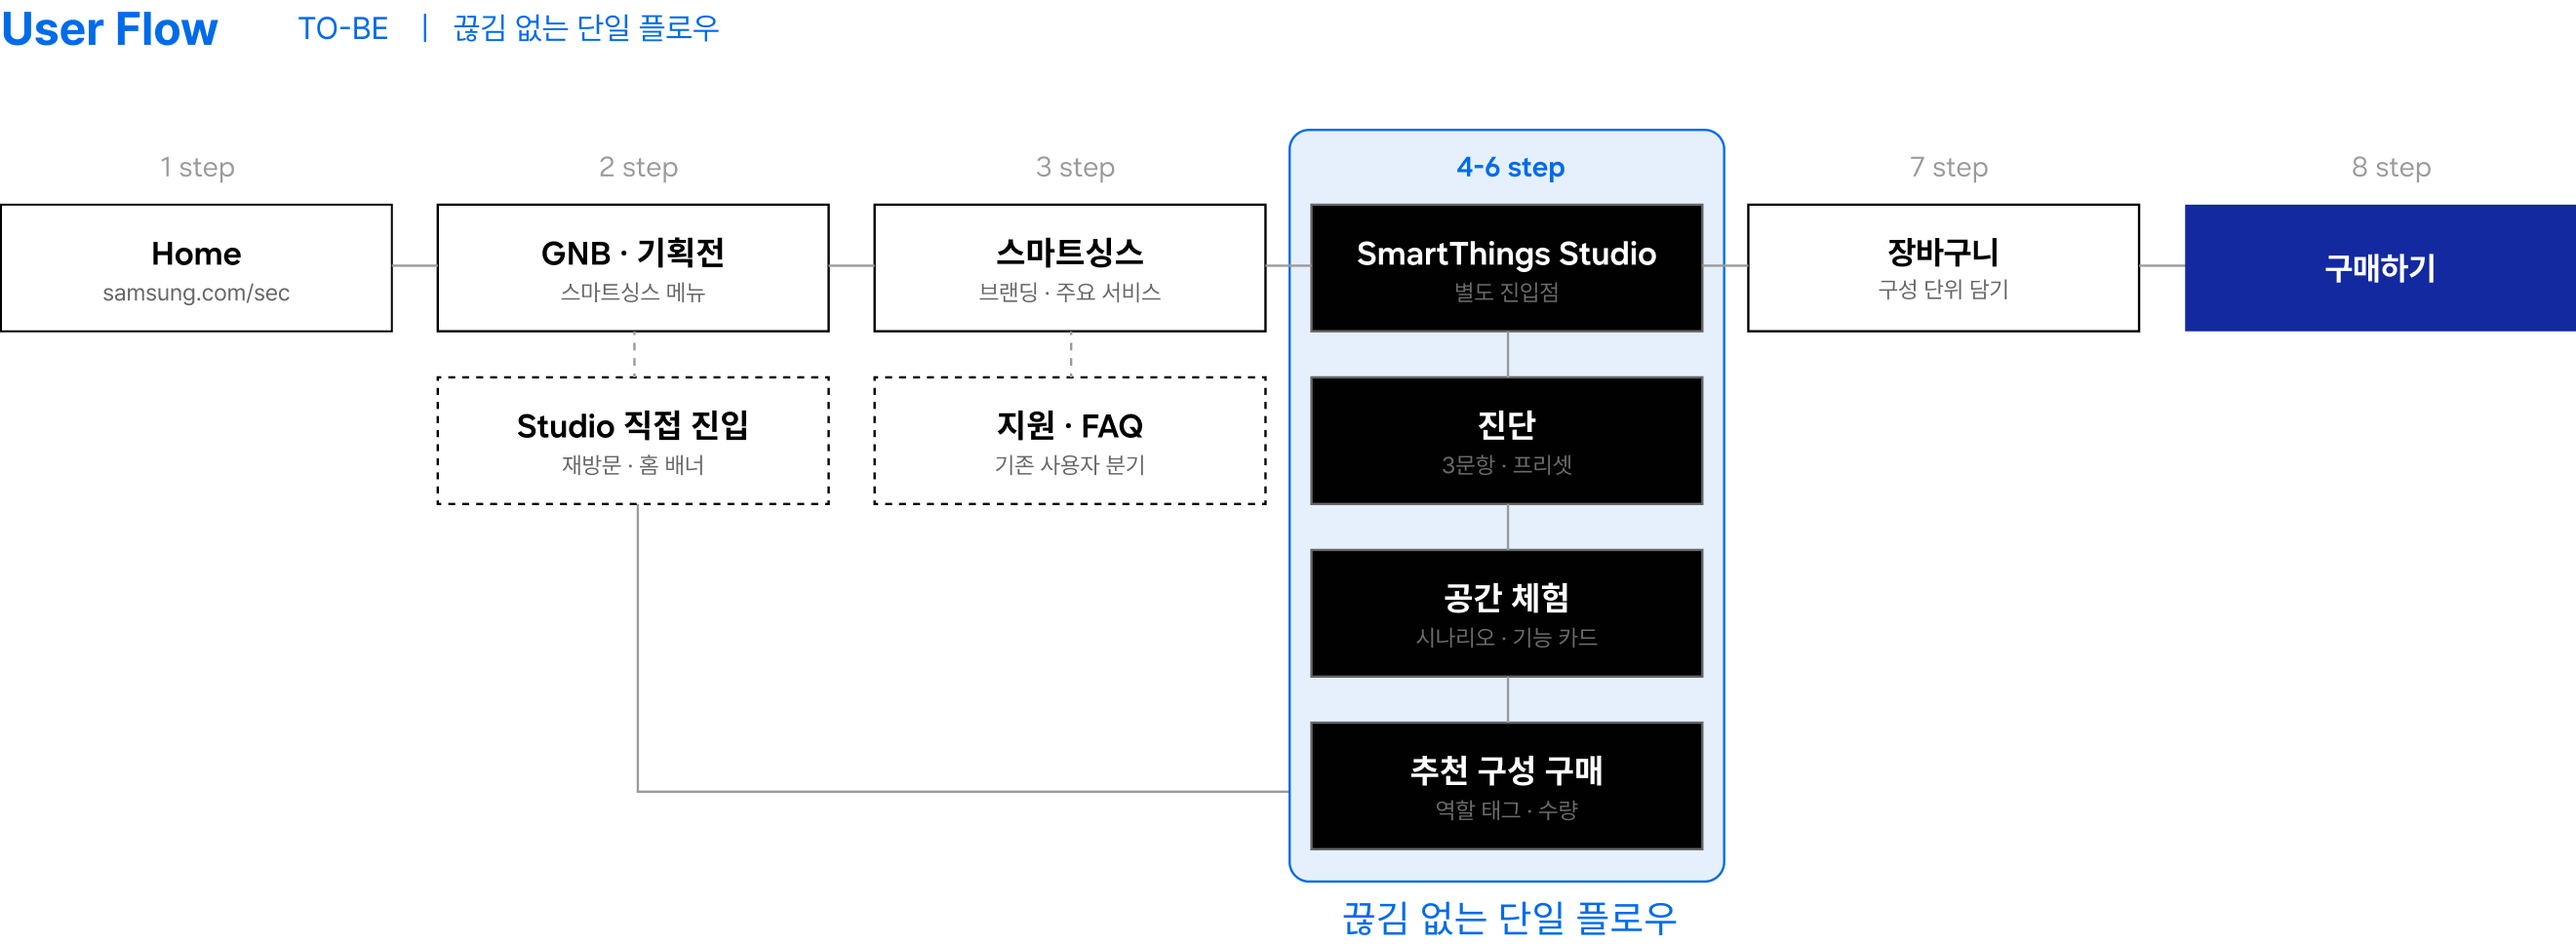
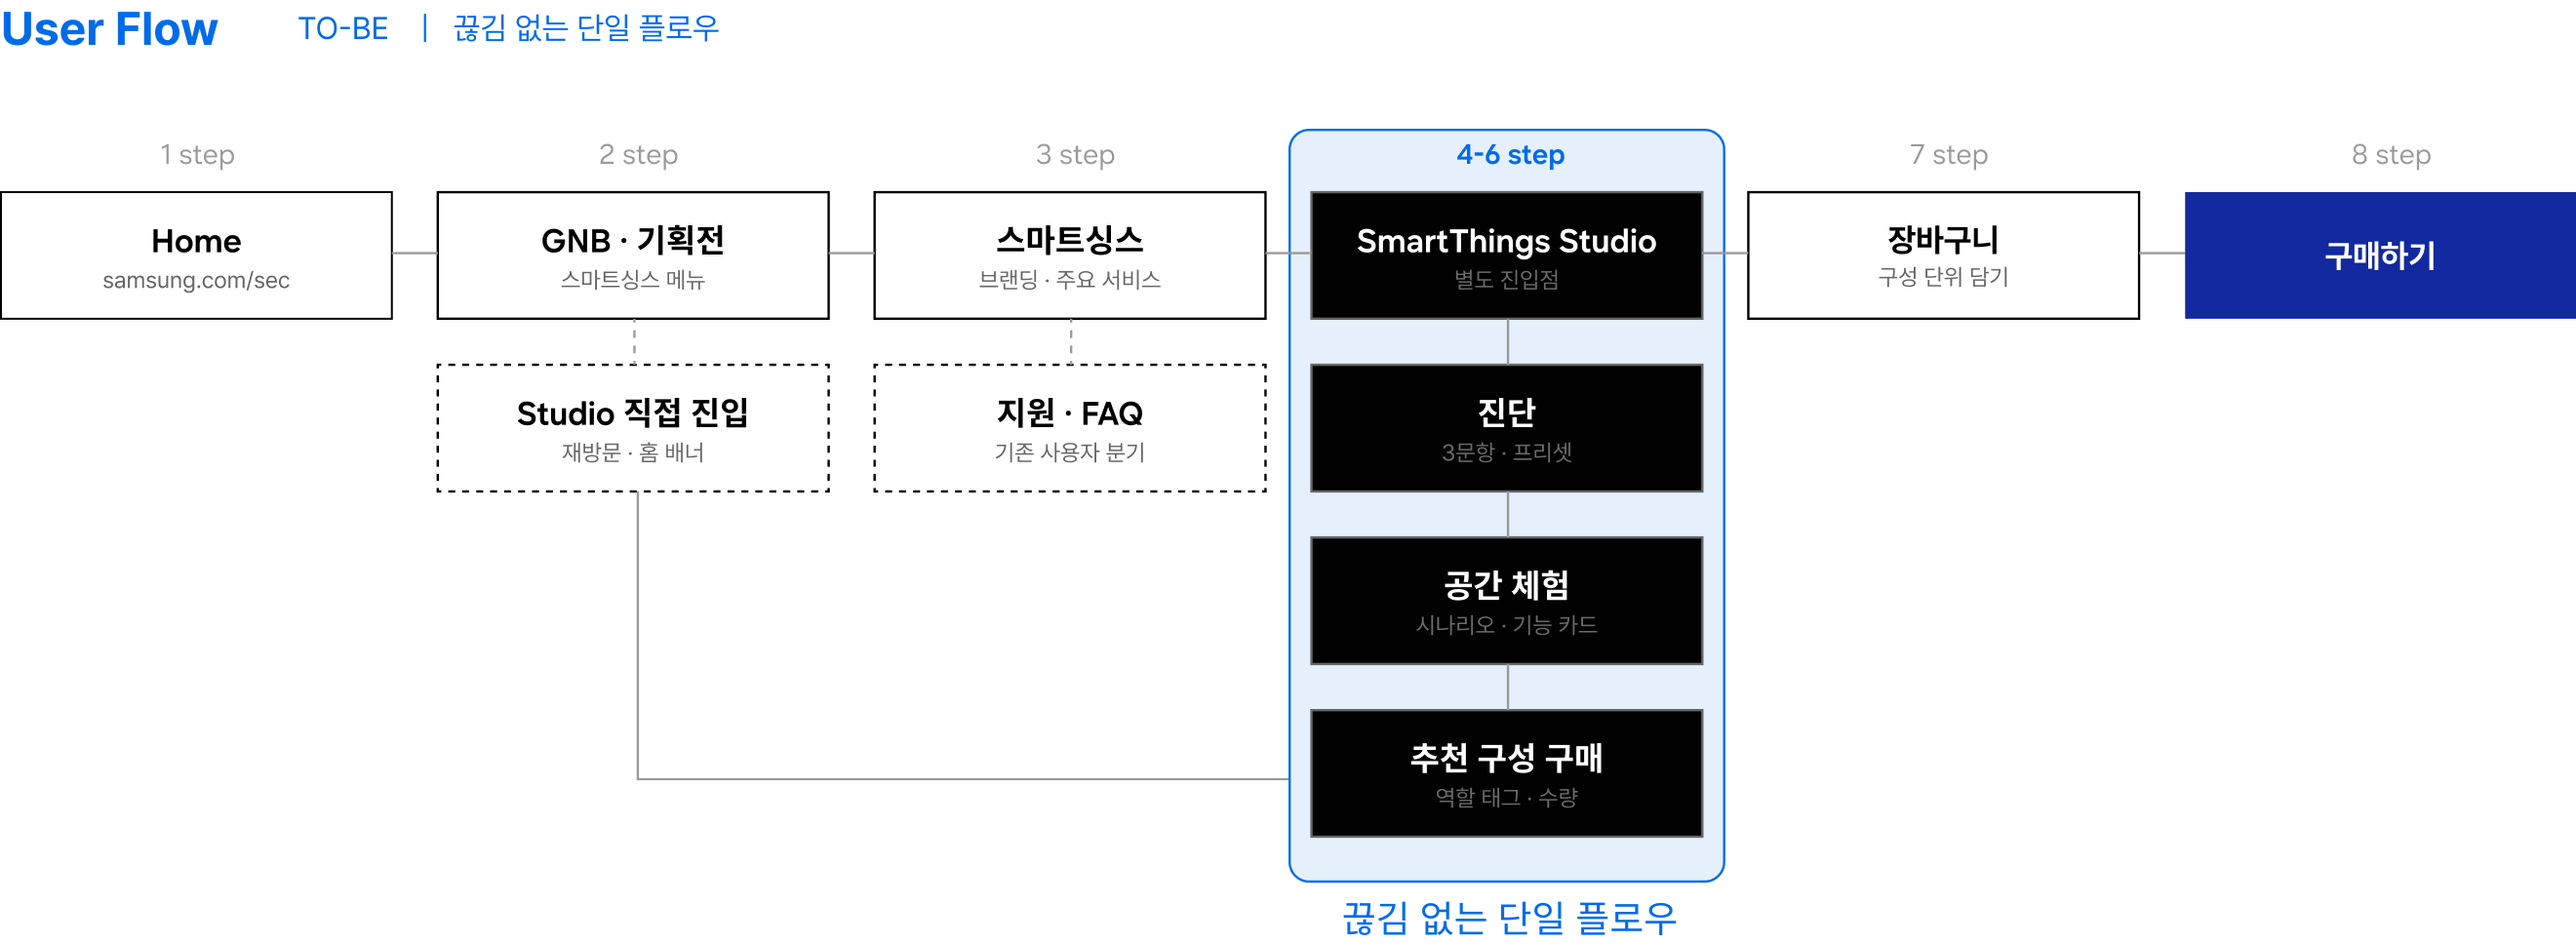
Catchtable: updated user flow images
Claude-Session: https://claude.ai/code/session_01YA1f9o6pRyCJaqnAc7Xkww

diff --git a/catchtable/index.html b/catchtable/index.html
@@ -885,7 +885,7 @@
   <div class="res-flow">
     <h4>그 결과, 구매까지의 흐름을 다시 설계했습니다</h4>
     <p>기능 탐색과 구매가 나뉘어 있던 경로를 SmartThings Studio 안의 진단 → 공간 체험 → 추천 구성 구매로 묶어, 끊김 없는 하나의 흐름으로 제안했습니다.</p>
-    <figure class="uf asis2"><img src="img/st/flow-asis.png" width="2644" height="887" alt="AS-IS 유저 플로우 — 구매까지 최대 10단계, 페이지 이동 7회" loading="lazy"></figure>
+    <figure class="uf asis2"><img src="img/st/flow-asis.png" width="2644" height="807" alt="AS-IS 유저 플로우 — 구매까지 최대 10단계, 페이지 이동 7회" loading="lazy"></figure>
     <figure class="uf tobe2"><img src="img/st/flow-tobe.png" width="2641" height="968" alt="TO-BE 유저 플로우 — 끊김 없는 단일 플로우" loading="lazy"></figure>
   </div>
 </div>
